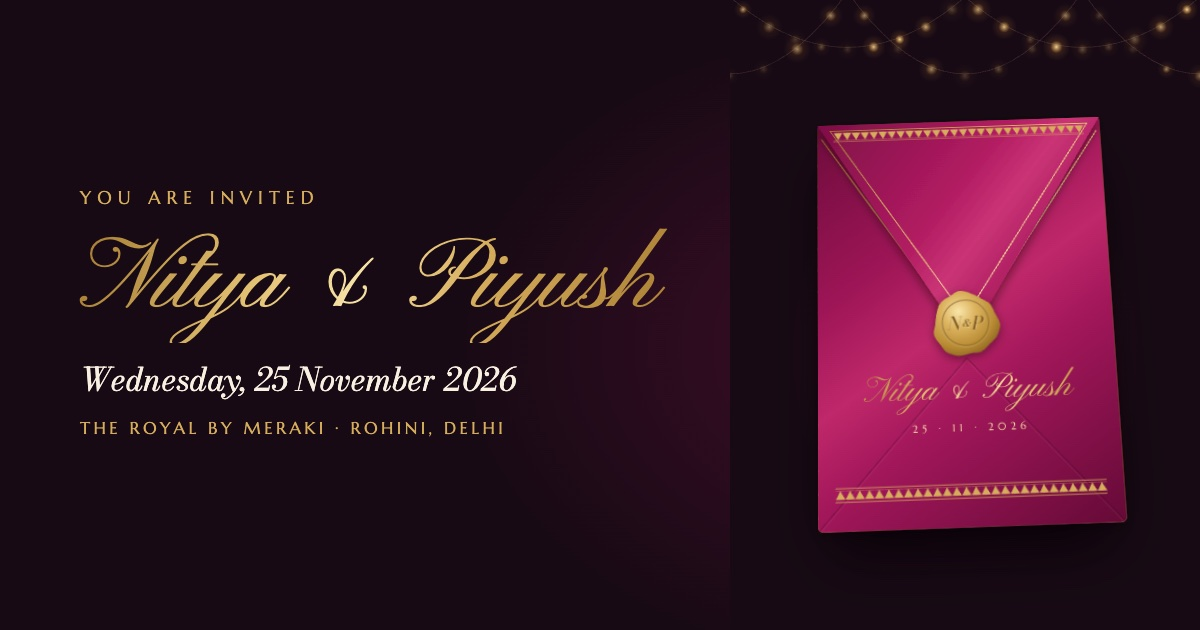
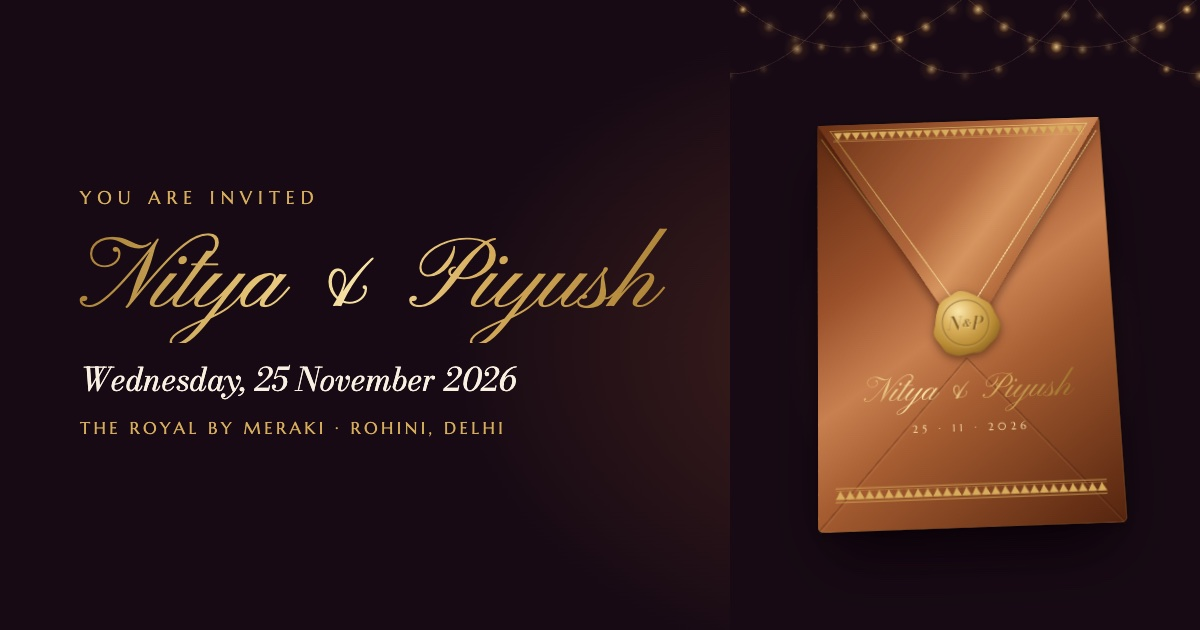
Copper envelope instead of rani pink
Envelope silk, flap, fold tints, stage glow and the link-preview image
move from pink to copper; the names on the envelope get a soft shadow
for contrast on the new colour.

Changed region(s): [[0.6783, 0.181, 0.9558, 0.8444]]

diff --git a/index.html b/index.html
@@ -12,7 +12,7 @@
 <meta property="og:image:type" content="image/jpeg">
 <meta property="og:image:width" content="1200">
 <meta property="og:image:height" content="630">
-<meta property="og:image:alt" content="A rani-pink silk envelope sealed in gold, addressed from Nitya and Piyush">
+<meta property="og:image:alt" content="A copper silk envelope sealed in gold, addressed from Nitya and Piyush">
 <meta name="twitter:card" content="summary_large_image">
 <meta name="theme-color" content="#170a14">
 <style>:root{padding-top:env(safe-area-inset-top,0px);padding-bottom:env(safe-area-inset-bottom,0px)}img{max-width:100%}[hidden]{display:none!important}</style>
@@ -29,7 +29,7 @@
 :root{
   --night:#170a14;          /* wedding night, aubergine-black */
   --night-hi:#2a1224;
-  --silk:#a0155a;           /* rani-pink Kanjeevaram */
+  --silk:#a85a2e;           /* copper silk */
   --peacock:#0e4d4f;        /* contrast border silk */
   --zari-lo:#9c7128;        /* gold zari thread */
   --zari:#d6ad5c;
@@ -59,7 +59,7 @@ body{margin:0;background:var(--night);color:var(--paper);font-family:var(--f-ser
 /* ---------- stage ---------- */
 .track{position:relative;z-index:1;height:640vh;height:640svh}
 .stage{position:sticky;top:env(safe-area-inset-top,0px);height:100vh;height:calc(100svh - env(safe-area-inset-top,0px) - env(safe-area-inset-bottom,0px));overflow:hidden;display:grid;place-items:center;
-  background:radial-gradient(55% 45% at 50% 56%,rgba(160,21,90,.20),rgba(160,21,90,0) 70%)}
+  background:radial-gradient(55% 45% at 50% 56%,rgba(184,98,52,.20),rgba(184,98,52,0) 70%)}
 .scene{position:relative;width:360px;height:640px;--sheen:30%}
 /* while the card is moving, keep its layers' rasters (no re-raster per frame); dropped at rest so text re-renders crisp */
 .moving .env-part,.moving .card,.moving .card-shadow,.moving .inner,.moving .door{will-change:transform}
@@ -108,9 +108,9 @@ body{margin:0;background:var(--night);color:var(--paper);font-family:var(--f-ser
 .env-flap .face{position:absolute;inset:0;-webkit-backface-visibility:hidden;backface-visibility:hidden}
 .env-flap .face.in{transform:rotateY(180deg)}
 .env-names{position:absolute;left:0;right:0;top:280px;display:grid;justify-items:center;gap:10px;text-align:center}
-.env-names .who{font:400 38px/1.3 var(--f-script);padding:0 .3em}
+.env-names .who{font:400 38px/1.3 var(--f-script);padding:0 .3em;filter:drop-shadow(0 1px 1.5px rgba(40,14,0,.6))}
 .env-names .when{font:400 11px/1 var(--f-caps);letter-spacing:.4em;padding-left:.4em;color:var(--zari-hi)}
-.seal{position:absolute;left:140px;top:290px;width:80px;height:80px;z-index:6;filter:drop-shadow(0 4px 5px rgba(40,0,20,.5))}
+.seal{position:absolute;left:140px;top:290px;width:80px;height:80px;z-index:6;filter:drop-shadow(0 4px 5px rgba(40,14,0,.55))}
 .seal .half{position:absolute;inset:0}
 .seal .half.l{clip-path:polygon(0 0,54% 0,47% 22%,56% 44%,46% 66%,54% 84%,49% 100%,0 100%)}
 .seal .half.r{clip-path:polygon(54% 0,100% 0,100% 100%,49% 100%,54% 84%,46% 66%,56% 44%,47% 22%)}
@@ -244,10 +244,10 @@ body{margin:0;background:var(--night);color:var(--paper);font-family:var(--f-ser
       <stop offset="0" stop-color="#7a5216"/><stop offset=".35" stop-color="#c49a48"/><stop offset=".5" stop-color="#e2c27a"/><stop offset=".7" stop-color="#a77a2c"/><stop offset="1" stop-color="#6f4a14"/>
     </linearGradient>
     <linearGradient id="gSilk" gradientUnits="userSpaceOnUse" x1="0" y1="0" x2="316" y2="446">
-      <stop offset="0" stop-color="#6d0c3c"/><stop offset=".32" stop-color="#9d1556"/><stop offset=".5" stop-color="#bf286a"/><stop offset=".64" stop-color="#a3175b"/><stop offset="1" stop-color="#650a37"/>
+      <stop offset="0" stop-color="#5c2810"/><stop offset=".32" stop-color="#99502a"/><stop offset=".5" stop-color="#c98050"/><stop offset=".64" stop-color="#a65d31"/><stop offset="1" stop-color="#55240e"/>
     </linearGradient>
     <linearGradient id="gSilkFlap" gradientUnits="userSpaceOnUse" x1="0" y1="0" x2="316" y2="252">
-      <stop offset="0" stop-color="#7e0f47"/><stop offset=".42" stop-color="#b21c62"/><stop offset=".55" stop-color="#ca3476"/><stop offset=".72" stop-color="#a8195d"/><stop offset="1" stop-color="#760d41"/>
+      <stop offset="0" stop-color="#6c3216"/><stop offset=".42" stop-color="#b0663b"/><stop offset=".55" stop-color="#d6955f"/><stop offset=".72" stop-color="#a95d31"/><stop offset="1" stop-color="#652d13"/>
     </linearGradient>
     <linearGradient id="gPeacock" gradientUnits="userSpaceOnUse" x1="0" y1="0" x2="316" y2="458">
       <stop offset="0" stop-color="#093a3c"/><stop offset=".45" stop-color="#0f5858"/><stop offset=".56" stop-color="#136867"/><stop offset="1" stop-color="#0a4143"/>
@@ -291,7 +291,7 @@ body{margin:0;background:var(--night);color:var(--paper);font-family:var(--f-ser
       <use href="#rosette" x="72" y="414" width="14" height="14" style="color:#a77a2c"/>
     </symbol>
     <filter id="fShadow" x="-10%" y="-10%" width="120%" height="140%">
-      <feDropShadow dx="0" dy="5" stdDeviation="5" flood-color="#1a0010" flood-opacity=".5"/>
+      <feDropShadow dx="0" dy="5" stdDeviation="5" flood-color="#1f0a02" flood-opacity=".5"/>
     </filter>
     <symbol id="rosette" viewBox="-10 -10 20 20">
       <g fill="currentColor">
@@ -416,8 +416,8 @@ body{margin:0;background:var(--night);color:var(--paper);font-family:var(--f-ser
         <div class="env-part env-pocket" id="envPocket">
           <svg viewBox="0 0 316 446" width="316" height="446" aria-hidden="true">
             <path d="M0 4Q0 0 4 1L158 236L312 1Q316 0 316 4V440Q316 446 310 446H6Q0 446 0 440Z" fill="url(#gSilk)"/>
-            <path d="M0 446L158 270L316 446" fill="none" stroke="#3a0620" stroke-opacity=".3" stroke-width="1.2"/>
-            <path d="M2 447L158 273L314 447" fill="none" stroke="#ff9cc8" stroke-opacity=".1" stroke-width=".8"/>
+            <path d="M0 446L158 270L316 446" fill="none" stroke="#3a1606" stroke-opacity=".32" stroke-width="1.2"/>
+            <path d="M2 447L158 273L314 447" fill="none" stroke="#ffd2a8" stroke-opacity=".12" stroke-width=".8"/>
             <path d="M4 16L158 246L312 16" fill="none" stroke="url(#gGold)" stroke-width="1.3"/>
             <rect x="18" y="405" width="280" height="9" fill="url(#pTempleUp)"/>
             <path d="M18 402.5H298M18 416.5H298" stroke="#d6ad5c" stroke-width=".7"/>
